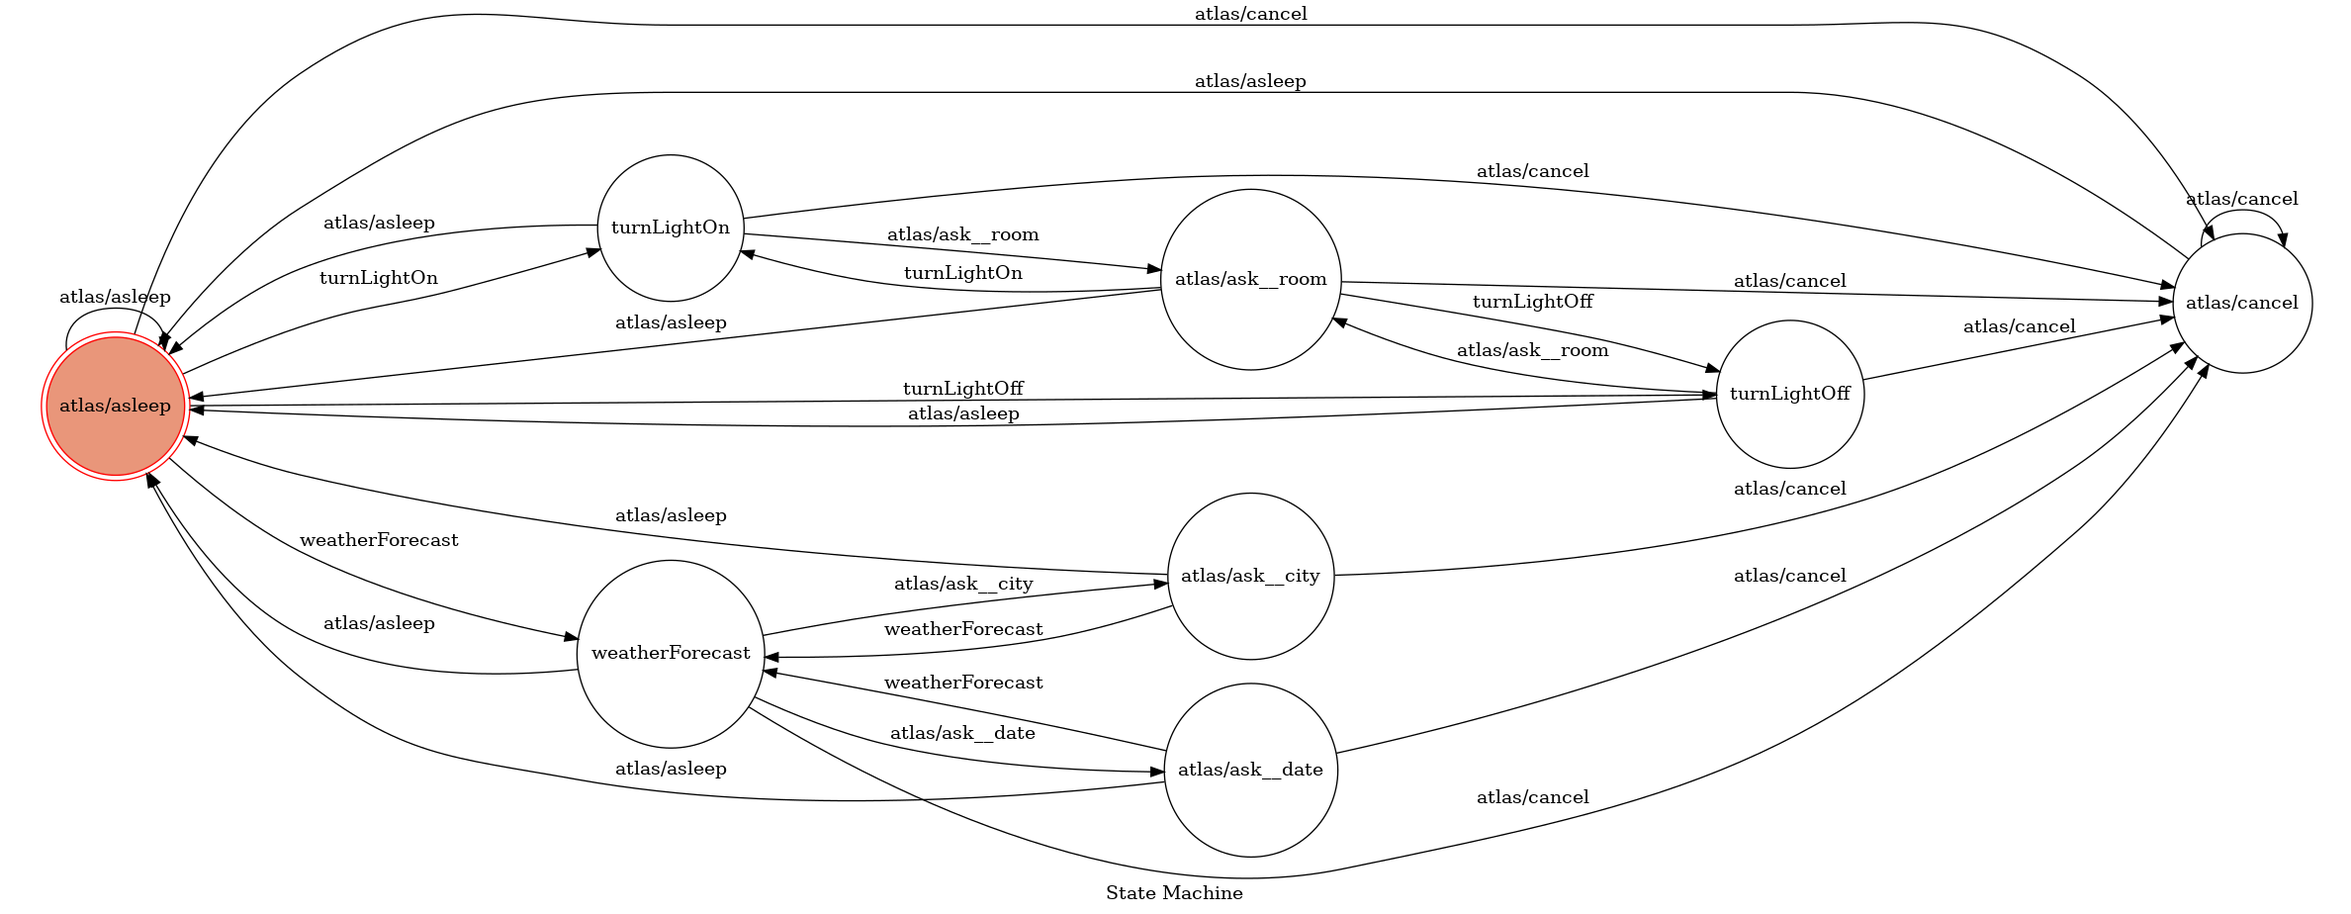
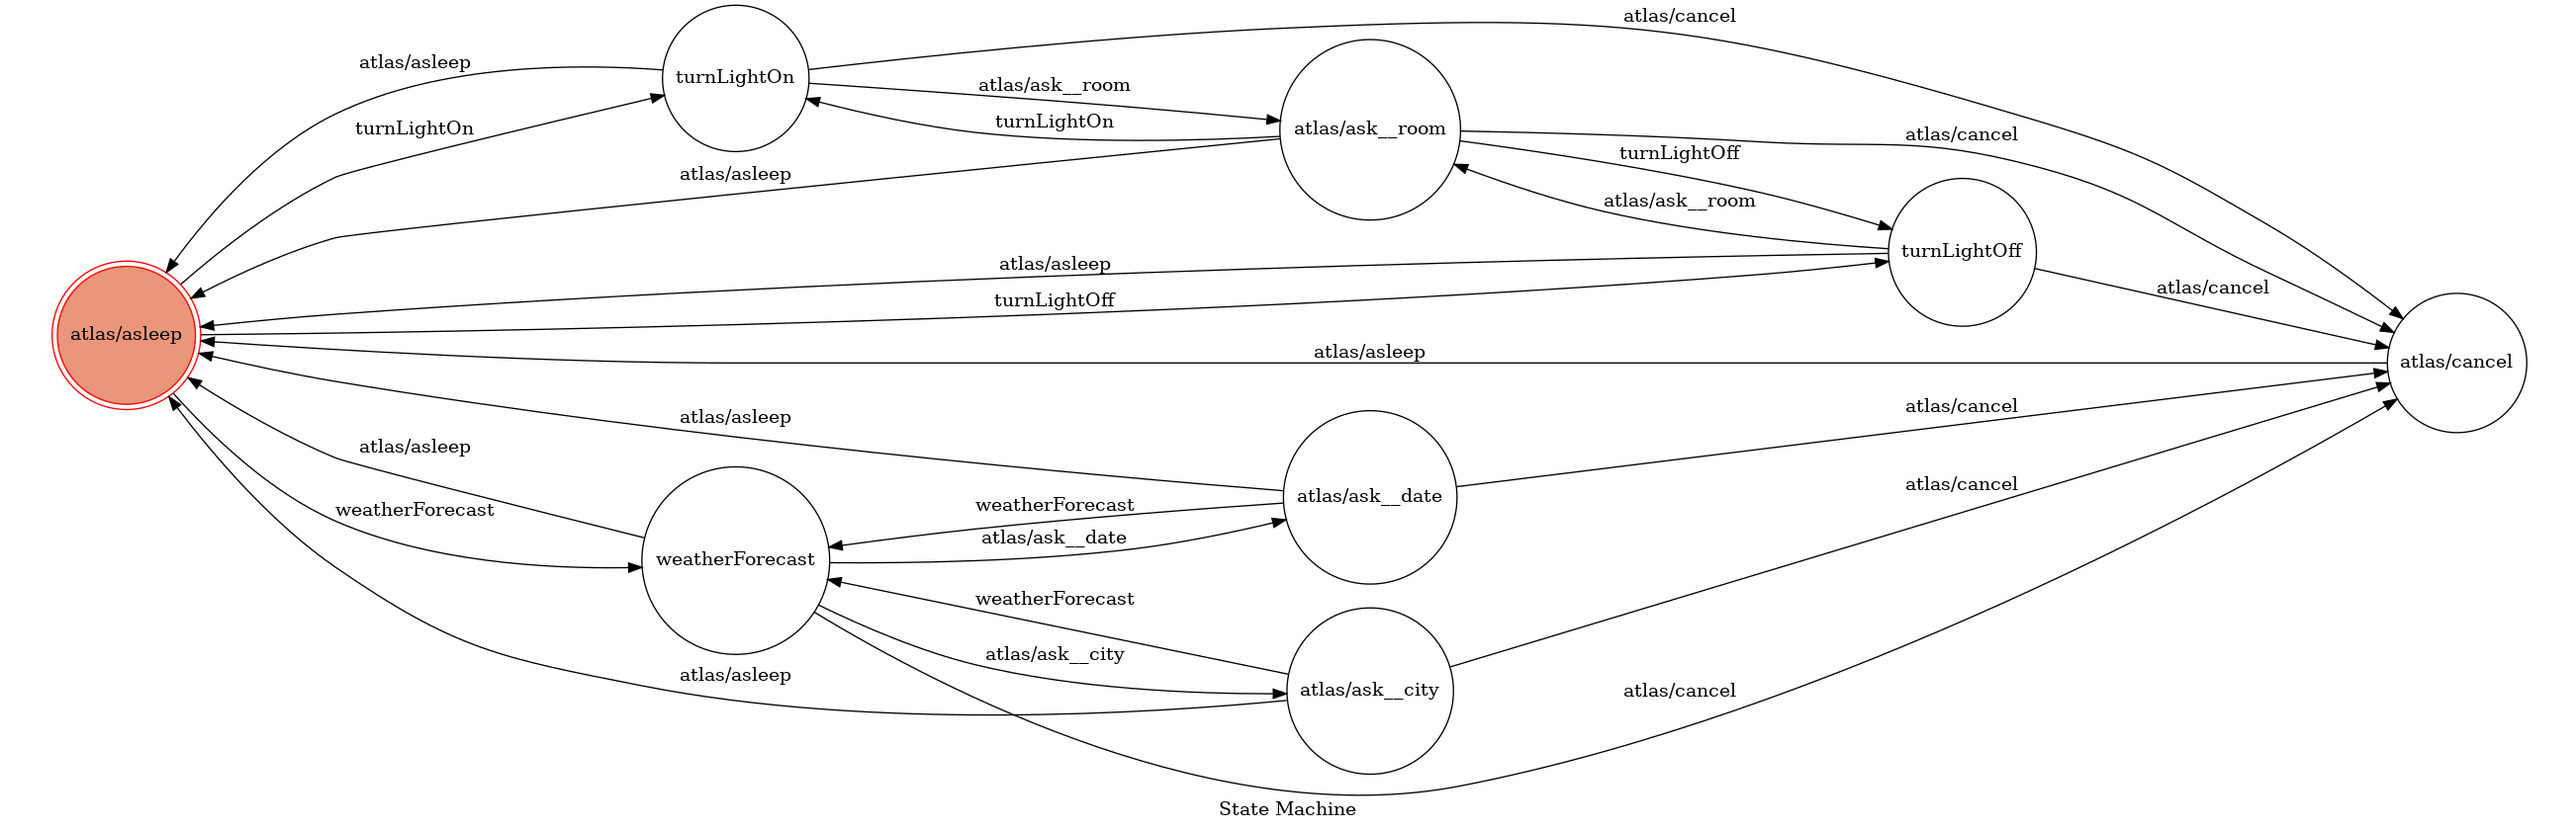
Fix unneeded transitions

diff --git a/atlas/agent.py b/atlas/agent.py
@@ -102,7 +102,10 @@ class Agent:
     metadata = { k: v for k, v in self.interpreter.metadata().items() if not is_builtin(k) }
 
     ask_states = list(set([to_ask_state(slot) for meta in metadata.values() for slot in meta]))
-    states = [STATE_ASLEEP, STATE_CANCEL] + list(metadata.keys()) + [{ 
+    metadata_states = list(metadata.keys())
+    builtin_states = [STATE_CANCEL]
+    
+    states = [STATE_ASLEEP] + builtin_states + metadata_states + [{ 
       'name': o, 
       'timeout': ask_timeout, 
       'on_timeout': self._on_timeout 
@@ -117,8 +120,8 @@ class Agent:
 
     self._log.info('Created with states %s' % list(self._machine.states.keys()))
 
-    self._machine.add_transition(STATE_ASLEEP, '*', STATE_ASLEEP, after=self.reset)
-    self._machine.add_transition(STATE_CANCEL, '*', STATE_CANCEL, after=self._call_intent)
+    self._machine.add_transition(STATE_ASLEEP, builtin_states + metadata_states + ask_states, STATE_ASLEEP, after=self.reset)
+    self._machine.add_transition(STATE_CANCEL, metadata_states + ask_states, STATE_CANCEL, after=self._call_intent)
     
     ask_transitions_source = { k: [] for k in ask_states }
 
